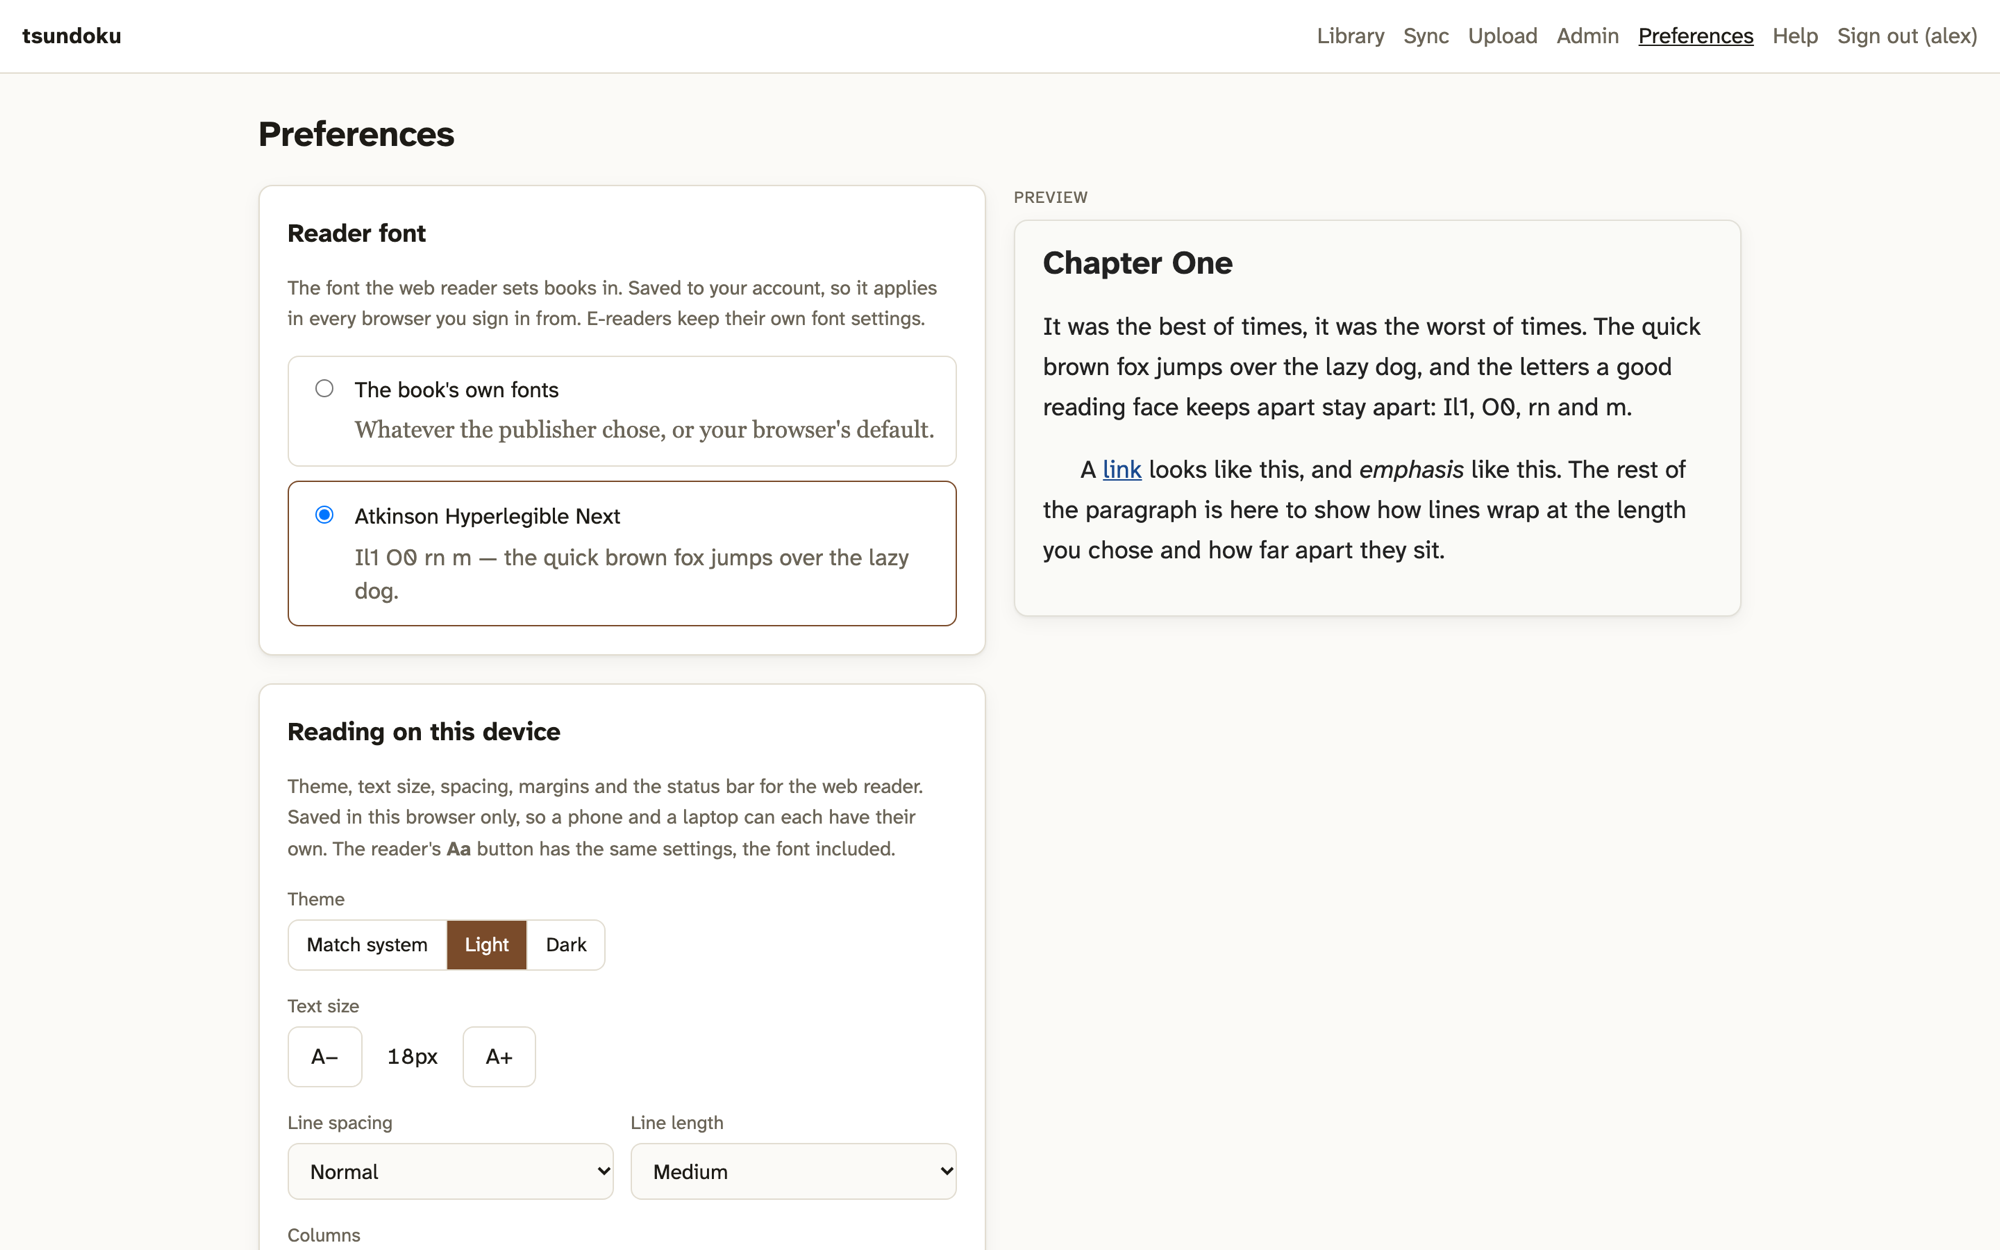
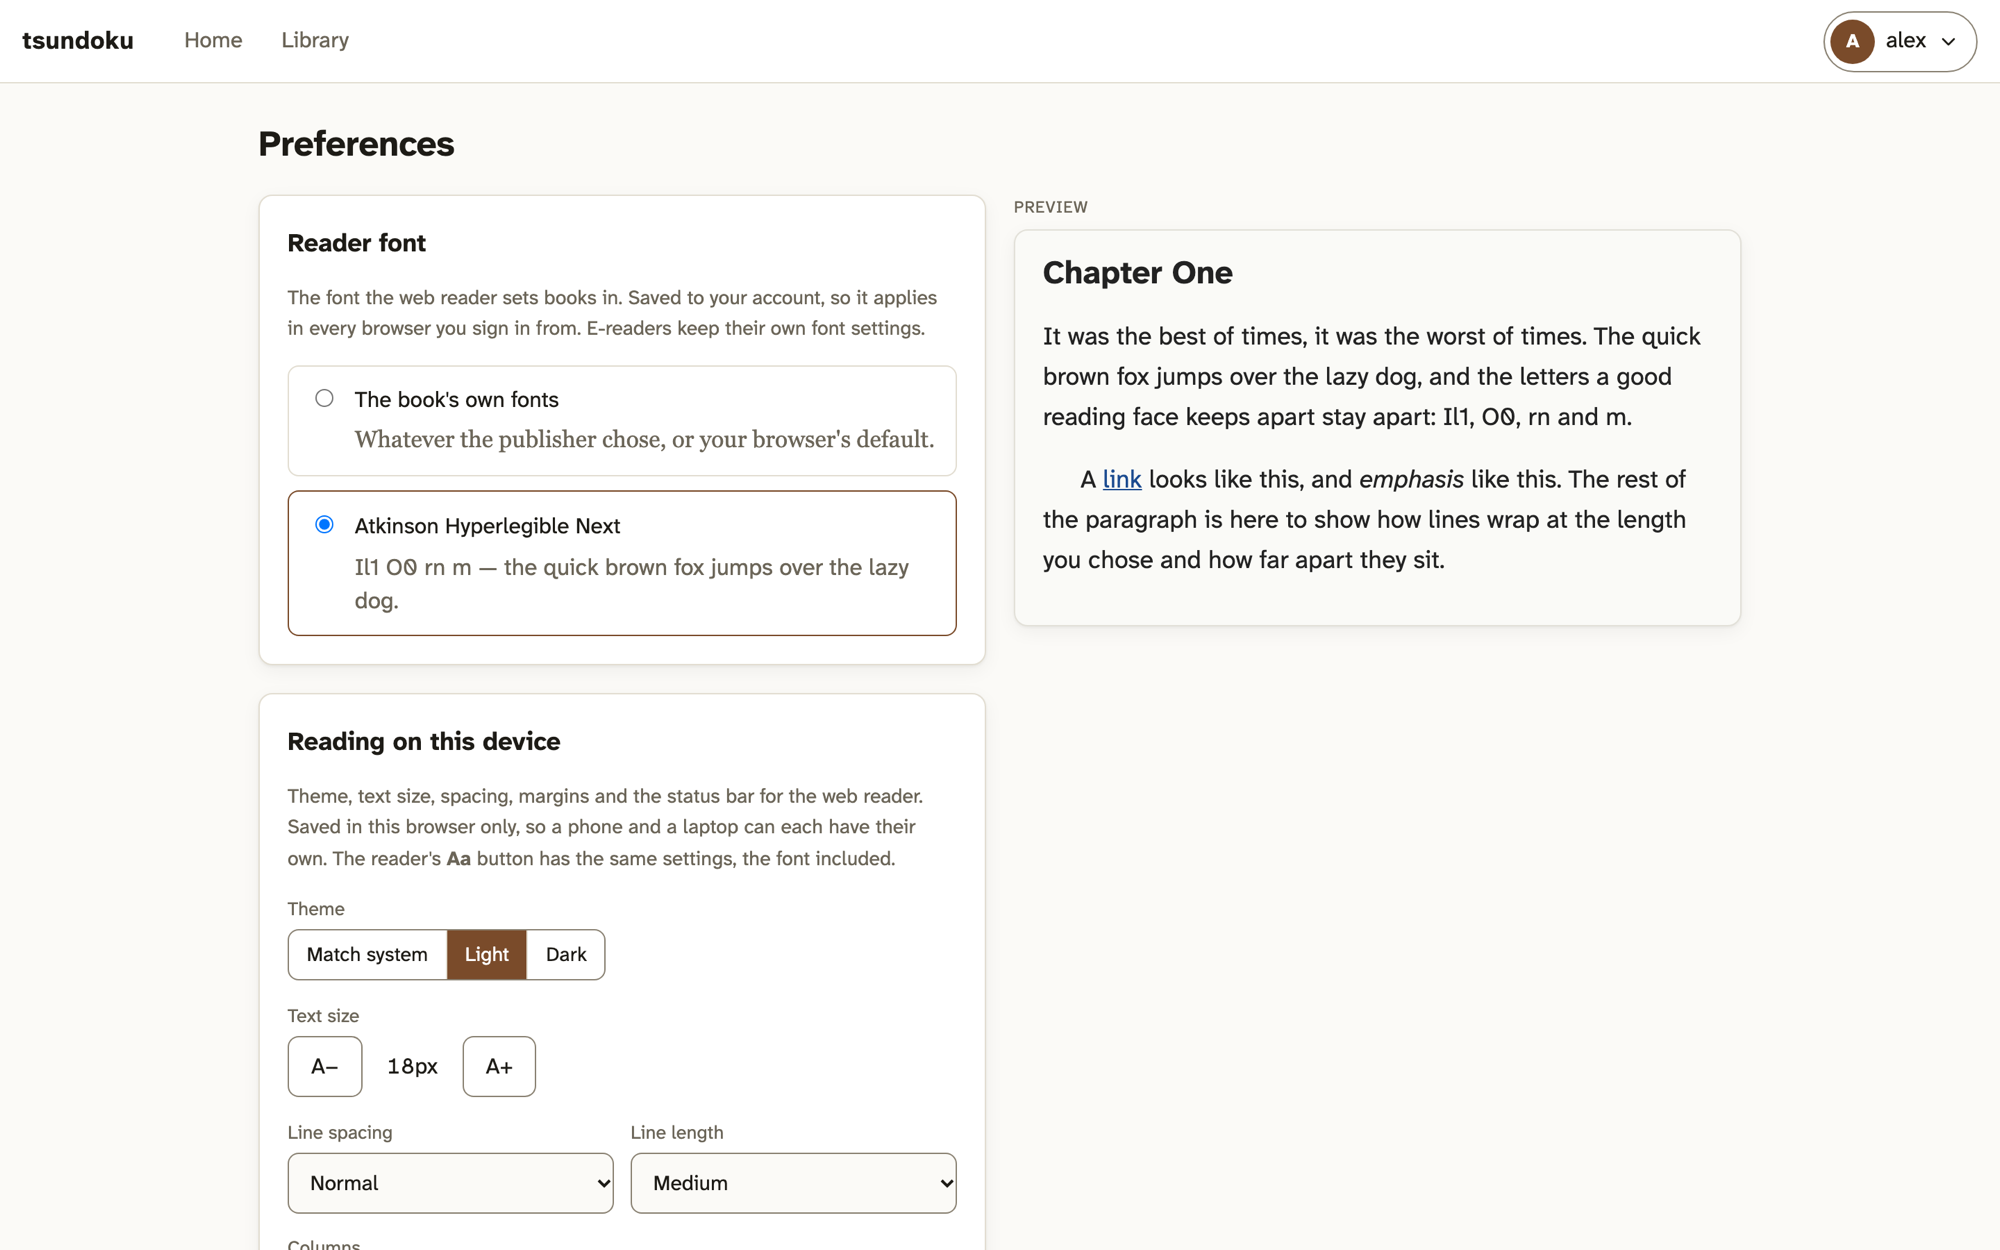
Retake the screenshots for the new header, Home and Reading sync
Every screenshot showed the old header and the old Sync page. These come
from a fresh local instance with the same fifteen Standard Ebooks books
and demo kosync positions, captured with Playwright at 2x as before.

- Desktop shots show the Home / Library header and the account menu button.
- Phone shots show the Home / Library / Account tab bar.
- sync-desktop.png is now the Reading sync section of the Admin page; its
  alt text and caption say so in USAGE.md and on the site.
- New Home shots (home-desktop.jpg, home-mobile.jpg) lead USAGE.md's
  Screens and the site's screenshots; the site's phone row is five wide.

diff --git a/docs/index.html b/docs/index.html
@@ -123,7 +123,7 @@ ul.principles li { color: var(--muted); }
 ul.principles strong { color: var(--ink); }
 details { margin: 0 0 1rem; }
 h3.shots { font-size: 1.05rem; margin: 2rem 0 1rem; }
-.phones { display: grid; grid-template-columns: repeat(4, minmax(0, 1fr)); gap: 1.1rem; margin: 0 0 2rem; }
+.phones { display: grid; grid-template-columns: repeat(5, minmax(0, 1fr)); gap: 1.1rem; margin: 0 0 2rem; }
 .phones figure { margin: 0; }
 .phones img { border-radius: 18px; }
 @media (max-width: 640px) { .phones { grid-template-columns: repeat(2, minmax(0, 1fr)); } }
@@ -258,6 +258,11 @@ details summary { cursor: pointer; color: var(--accent); margin-bottom: .75rem; 
 
     <h3 class="shots">On a laptop</h3>
     <figure>
+      <img src="screenshots/home-desktop.jpg" width="2000" height="1250" loading="lazy" decoding="async"
+           alt="Home: a bar to resume Moby Dick from the Kindle, the books being read with each one's latest device, and the most recently added covers.">
+      <figcaption>Home: one tap to pick up where any device left off, what you're reading, and what's new.</figcaption>
+    </figure>
+    <figure>
       <img src="screenshots/library-desktop.jpg" width="2000" height="1250" loading="lazy" decoding="async"
            alt="The library: a grid of book covers with search, sorting and paging.">
       <figcaption>The library: covers, metadata and search, read out of the files on upload.</figcaption>
@@ -274,8 +279,8 @@ details summary { cursor: pointer; color: var(--accent); margin-bottom: .75rem; 
     </figure>
     <figure>
       <img src="screenshots/sync-desktop.png" width="2000" height="1250" loading="lazy" decoding="async"
-           alt="The Sync page: reading positions grouped by book, each listing its devices with how far through each one is and how far behind the others are.">
-      <figcaption>Sync: every device's position on every book, and whether they agree.</figcaption>
+           alt="Reading sync on the Admin page: reading positions grouped by book, each listing its devices with how far through each one is and how far behind the others are.">
+      <figcaption>Reading sync on the Admin page: every device's position on every book, and whether they agree.</figcaption>
     </figure>
     <figure>
       <img src="screenshots/admin-desktop.png" width="2000" height="1250" loading="lazy" decoding="async"
@@ -286,8 +291,13 @@ details summary { cursor: pointer; color: var(--accent); margin-bottom: .75rem; 
     <h3 class="shots">On a phone</h3>
     <div class="phones">
       <figure>
+        <img src="screenshots/home-mobile.jpg" width="780" height="1688" loading="lazy" decoding="async"
+             alt="Home on a phone: the resume bar, the books being read, and the Home, Library and Account tab bar.">
+        <figcaption>Home</figcaption>
+      </figure>
+      <figure>
         <img src="screenshots/library-mobile.jpg" width="780" height="1688" loading="lazy" decoding="async"
-             alt="The library on a phone: two columns of book covers.">
+             alt="The library on a phone: two columns of book covers above the tab bar.">
         <figcaption>The library</figcaption>
       </figure>
       <figure>

diff --git a/USAGE.md b/USAGE.md
@@ -7,16 +7,22 @@
 The demo library is public-domain books from [Standard Ebooks](https://standardebooks.org).
 
 <p align="center">
+  <img src="docs/screenshots/home-desktop.jpg" alt="Home on a laptop: a bar to resume Moby Dick from the Kindle, the books being read with each one's latest device, and the most recently added covers" width="100%">
+  <br><em>Home: one tap to pick up where any device left off, what you're reading, and what's new.</em>
+</p>
+
+<p align="center">
   <img src="docs/screenshots/reader-desktop.png" alt="The web reader on a laptop: Pride and Prejudice, Chapter 1, in two columns" width="100%">
   <br><em>The web reader on a laptop: two columns, in Atkinson Hyperlegible Next.</em>
 </p>
 
 <p align="center">
-  <img src="docs/screenshots/library-mobile.jpg" alt="The library on a phone: two columns of book covers" width="24%">
-  <img src="docs/screenshots/reader-mobile.png" alt="The web reader on a phone in the light theme" width="24%">
-  <img src="docs/screenshots/reader-mobile-dark.png" alt="The web reader on a phone in the dark theme" width="24%">
-  <img src="docs/screenshots/settings-mobile.png" alt="The reader's Aa panel on a phone: font, theme, text size and spacing" width="24%">
-  <br><em>On a phone: the library, the reader in light and dark, and the Aa panel.</em>
+  <img src="docs/screenshots/home-mobile.jpg" alt="Home on a phone: the resume bar, the books being read, and the Home, Library and Account tab bar" width="19%">
+  <img src="docs/screenshots/library-mobile.jpg" alt="The library on a phone: two columns of book covers above the tab bar" width="19%">
+  <img src="docs/screenshots/reader-mobile.png" alt="The web reader on a phone in the light theme" width="19%">
+  <img src="docs/screenshots/reader-mobile-dark.png" alt="The web reader on a phone in the dark theme" width="19%">
+  <img src="docs/screenshots/settings-mobile.png" alt="The reader's Aa panel on a phone: font, theme, text size and spacing" width="19%">
+  <br><em>On a phone: Home, the library, the reader in light and dark, and the Aa panel.</em>
 </p>
 
 <p align="center">
@@ -25,8 +31,8 @@ The demo library is public-domain books from [Standard Ebooks](https://standarde
 </p>
 
 <p align="center">
-  <img src="docs/screenshots/sync-desktop.png" alt="The Sync page: reading positions grouped by book, each listing its devices, how far through each is and how far behind the others" width="100%">
-  <br><em>Sync: every device's position on every book, and whether they agree.</em>
+  <img src="docs/screenshots/sync-desktop.png" alt="Reading sync on the Admin page: reading positions grouped by book, each listing its devices, how far through each is and how far behind the others" width="100%">
+  <br><em>Reading sync on the Admin page: every device's position on every book, and whether they agree.</em>
 </p>
 
 <p align="center">
